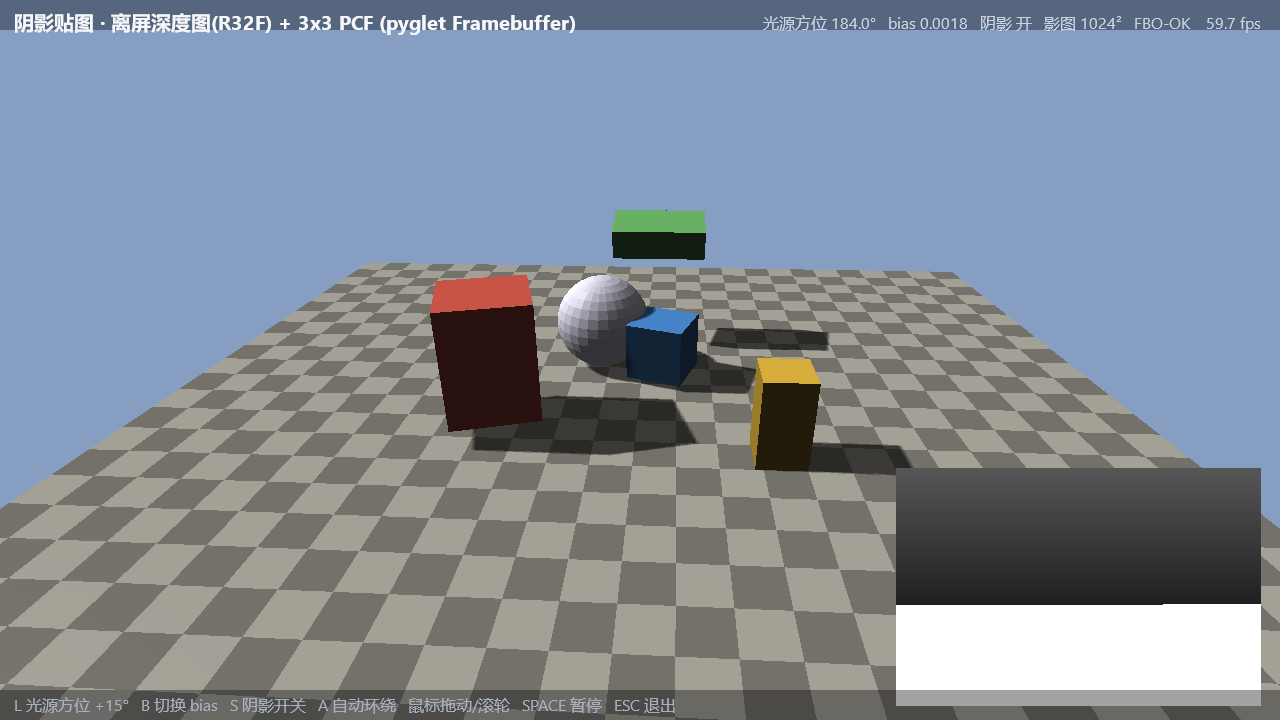
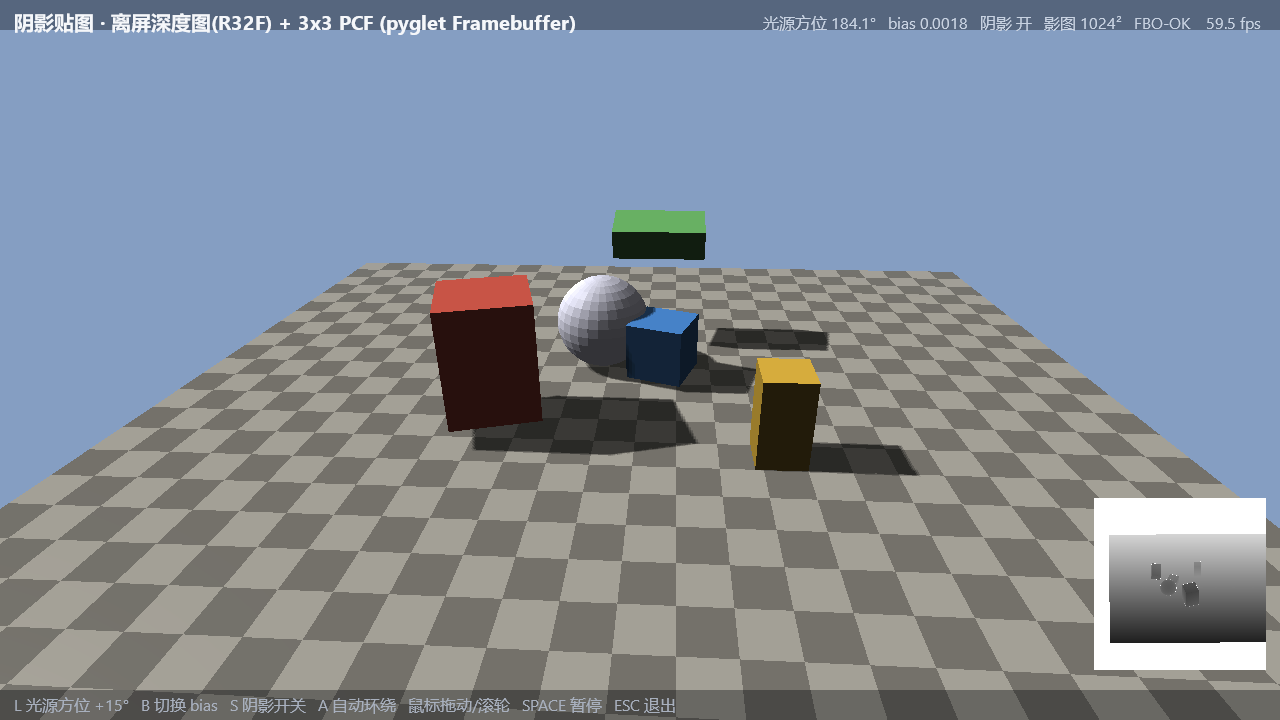
fix(demos): 阴影画中画按窗口自适应 + 窄窗口 HUD 不再撞字
两处都是"只在默认尺寸下看着还行"的缺陷，来自 boids 线 agent 的独立复核。

1. demos/shadow_map.py：画中画原先写死 NDC 坐标（x 0.40~0.97 / y -0.96~-0.30），
   1280x720 以外一律被宽高比拉扁，且占画面高度 28% 偏大。
   改为顶点用面板局部 [-1,1]²，实际矩形由 u_rect 每帧按窗口尺寸计算：
   像素正方形（短边 24%）、右下角、避开底部 HUD 暗条。
   顺带：深度图拉伸窗口 + 边缘描边后，物体轮廓在面板里清晰可辨。

2. demos/_harness.py：窄窗口下标题与状态行会糊在一起（实测 --size 1000x700）。
   set_status 里比较两者 content_width，放不下就让标题让位（窗口标题栏里还有一份）。

验收：--size 1000x700 与默认 1280x720 两种尺寸下肉眼确认面板不变形、无叠字；
9 个 demo 批量验收 ALL_DEMOS_OK；逻辑单测 28 项全绿；主线 8 张截图重出。

Changed region(s): [[0.6875, 0.6417, 1.0, 1.0]]

diff --git a/demos/shadow_map.py b/demos/shadow_map.py
@@ -129,9 +129,14 @@ void main() {
 PANEL_VS = '''#version 330 core
 in vec3 position;
 out vec2 v_uv;
+uniform vec4 u_rect;        // 面板在 NDC 中的 (x0, y0, 宽, 高)
 void main() {
     v_uv = position.xy * 0.5 + 0.5;
-    gl_Position = vec4(position.xy, 0.0, 1.0);
+    // 局部 [-1,1]² → 面板矩形：这样面板是"像素正方形"，
+    // 而不是跟着 NDC 被窗口宽高比拉扁（早期写死 NDC 坐标，
+    // 1280x720 以外一律变形）。
+    vec2 ndc = u_rect.xy + (position.xy * 0.5 + 0.5) * u_rect.zw;
+    gl_Position = vec4(ndc, 0.0, 1.0);
 }'''
 
 PANEL_FS = '''#version 330 core
@@ -243,9 +248,11 @@ class ShadowDemo(DemoApp):
         self.ground_depth = self.depth_prog.vertex_list(
             len(self.ground_v) // 3, GL_TRIANGLES, position=('f', self.ground_v))
 
-        # 画中画：把深度图贴在右下角（NDC 四边形，直接落在裁剪空间）
-        q = (0.40, -0.96, 0.0, 0.97, -0.96, 0.0, 0.97, -0.30, 0.0,
-             0.40, -0.96, 0.0, 0.97, -0.30, 0.0, 0.40, -0.30, 0.0)
+        # 画中画：把深度图贴在右下角。顶点是**面板局部**的 [-1,1]²，
+        # 实际位置/尺寸由 PANEL_VS 的 u_rect 每帧按窗口尺寸算（见 render），
+        # 这样面板在任何宽高比下都是像素正方形。
+        q = (-1.0, -1.0, 0.0, 1.0, -1.0, 0.0, 1.0, 1.0, 0.0,
+             -1.0, -1.0, 0.0, 1.0, 1.0, 0.0, -1.0, 1.0, 0.0)
         self.panel = self.panel_prog.vertex_list(6, GL_TRIANGLES,
                                                  position=('f', q))
 
@@ -357,6 +364,13 @@ class ShadowDemo(DemoApp):
 
         # ---- 画中画：显示第一趟的深度图（render-to-texture 的实证）----
         if self.fbo_ok:
+            # 面板按像素正方形摆放（占短边 24%），并避开底部 HUD 暗条；
+            # 每帧重算 → 改窗口尺寸/换宽高比都不会拉伸或压字。
+            side = max(64, int(min(w, h) * 0.24))
+            x0 = (w - 14 - side) / w * 2.0 - 1.0
+            y0 = (14 + 30 + 6) / h * 2.0 - 1.0
+            self.panel_prog['u_rect'] = (x0, y0, 2.0 * side / w, 2.0 * side / h)
+
             glDisable(GL_DEPTH_TEST)
             self.panel_prog.use()
             glActiveTexture(GL_TEXTURE0)

diff --git a/demos/_harness.py b/demos/_harness.py
@@ -137,6 +137,7 @@ class Hud:
 
     def layout(self, width, height):
         # shapes.Rectangle.position 只接受 (x, y)（与 text.Label 的三元组不同）
+        self._width = width
         self.bar_top.position = (0, height - self.BAR_H)
         self.bar_top.width, self.bar_top.height = width, self.BAR_H
         self.bar_bottom.position = (0, 0)
@@ -147,6 +148,10 @@ class Hud:
 
     def set_status(self, text):
         self.status.text = text
+        # 窄窗口下标题会和状态行撞在一起（实测 --size 1000x700 就糊成一团）。
+        # 撞车时让标题让位——窗口标题栏里还有一份，信息不丢。
+        self.title.visible = (self.title.content_width + self.status.content_width
+                              <= getattr(self, '_width', 9999) - 40)
 
     def draw(self):
         if self.visible:
